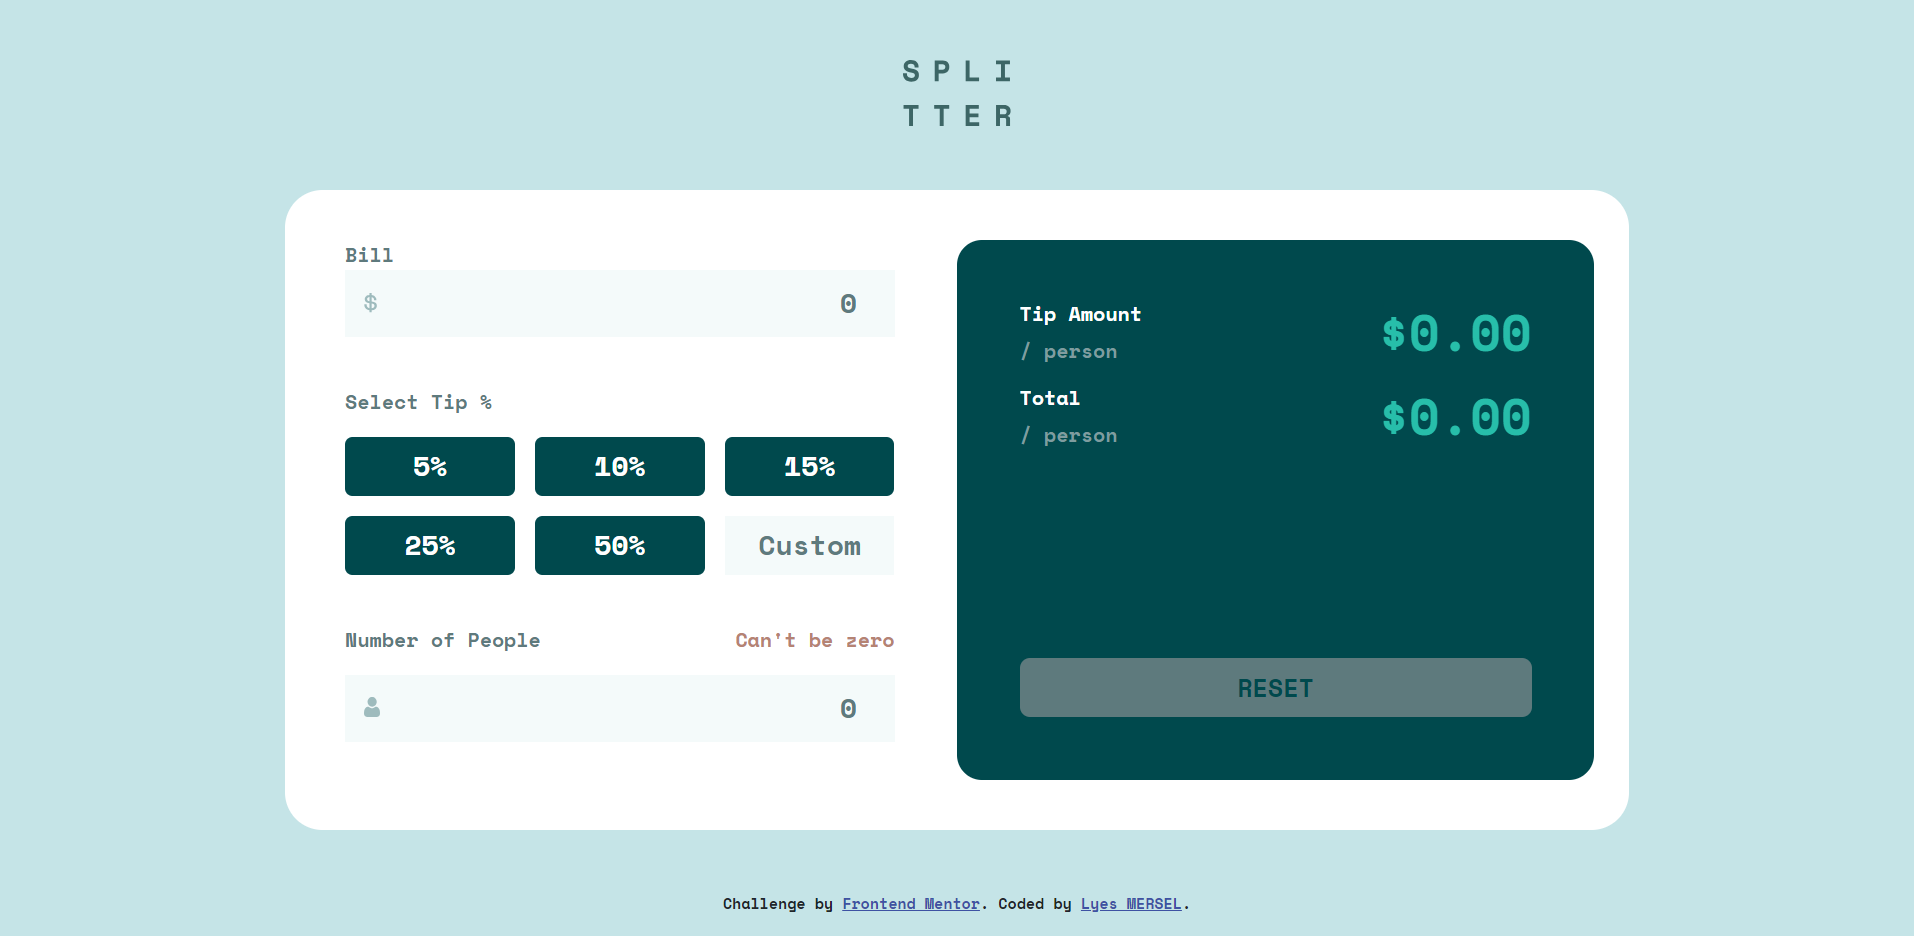
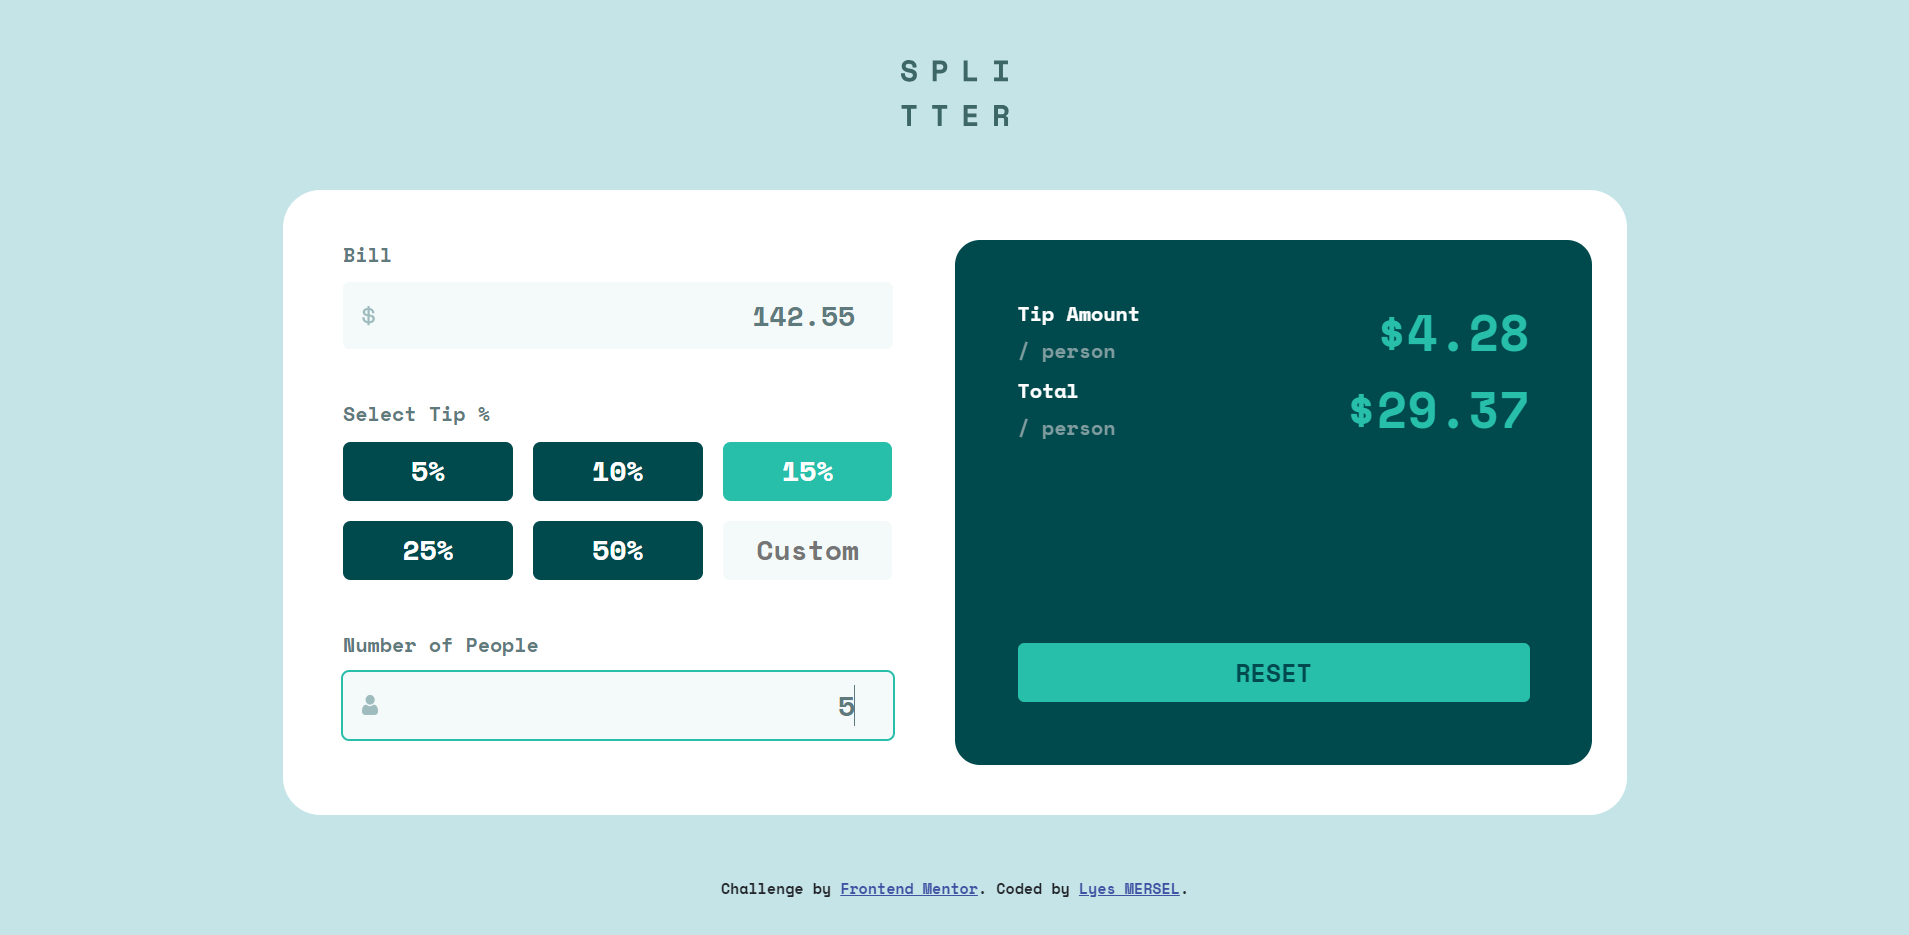
The project is done !

diff --git a/index.js b/index.js
@@ -3,16 +3,21 @@ var bill = 0, tipPerc = 0, numberPeople = 1, tipAmount = 0, totalAmount = 0;
 var tipExist = false, nbPeopleExist = false, dataExist = false;
 
 
-$(document).on("change", ()=> {
-    updateAmountsToUser();
-})
+    /*** ( The Event Listenners ) ***/
 
+// User clicks 'Enter' : Update the page
 $(document).on("keypress", (event)=> {
     if (event.key == "Enter") {
         updateAmountsToUser();
     }
 })
 
+// User clicks on the RESET button
+$(".reset-btn").on("click", ()=> {
+    resetData();
+})
+
+// User choose the tip
 $(".tip-btn").on("click", (event)=> {
     if (!dataExist) {
         dataExist = true;
@@ -27,23 +32,11 @@ $(".tip-btn").on("click", (event)=> {
     updateAmountsToUser();
 })
 
+// User customises the tip
 $("#tip-custom").on("click", ()=> {
     $(".tip-btn").removeClass("tip-selected");
     tipExist = false;
 })
-
-
-$("#bill").on("keypress", (event)=> {
-    if (event.key.match(/[0-9.]/)) {
-        if (!dataExist) {
-            dataExist = true;
-            $(".reset-btn").prop('disabled', false);
-        }
-    } else {
-        event.preventDefault();
-    }
-})
-
 $("#tip-custom").on("keypress", (event)=> {
     if (event.key.match(/[0-9.]/)) {
         if (!dataExist) {
@@ -55,6 +48,19 @@ $("#tip-custom").on("keypress", (event)=> {
     }
 })
 
+// User types the bill amount
+$("#bill").on("keypress", (event)=> {
+    if (event.key.match(/[0-9.]/)) {
+        if (!dataExist) {
+            dataExist = true;
+            $(".reset-btn").prop('disabled', false);
+        }
+    } else {
+        event.preventDefault();
+    }
+})
+
+// User types the number of people
 $("#nb-people").on("keypress", (event)=> {
     if (event.key.match(/[0-9]/)) {
         if (!dataExist) {
@@ -73,10 +79,49 @@ $("#nb-people").on("keypress", (event)=> {
 })
 
 
-// User clicks on the RESET button
-$(".reset-btn").on("click", ()=> {
-    resetData();
-})
+    /*** ( The Functions ) ***/
+
+// Do the calculations & update it on the screen
+function updateAmountsToUser() {
+    // Number of People == 0
+    if ($("#nb-people").val() == "0" || $("#nb-people").val() == "") {
+        $(".zero").removeClass("hide");
+        $("#nb-people").addClass("input-red");
+        $("#nb-people").css("outline", "none");
+        if (!dataExist) {
+            $(".reset-btn").prop('disabled', false);
+        }
+    } else {
+        nbPeopleExist = true;
+    }
+
+    // The Tip% is not selected
+    if ($("#tip-custom").val() != "") {
+        tipPerc = +$("#tip-custom").val();
+        tipExist = true;
+    }
+    if (tipExist) {
+        $(".select-tip p").removeClass("text-red");
+    } else {
+        $(".select-tip p").addClass("text-red");
+        if (!dataExist) {
+            $(".reset-btn").prop('disabled', false);
+        }
+    }
+    
+    // Data is ready : Do the calculations
+    if (tipExist && nbPeopleExist) {
+        bill = +$("#bill").val();
+        numberPeople = +$("#nb-people").val();
+        tipAmount = (bill * tipPerc / 100) / numberPeople;
+        totalAmount = (bill + tipAmount) / numberPeople;
+        // Show the amounts with 2 decimals
+        tipAmount = (Math.round(tipAmount * 100) / 100).toFixed(2);
+        totalAmount = (Math.round(totalAmount * 100) / 100).toFixed(2);
+        $("#tip-amount").text("$" + tipAmount);
+        $("#total-amount").text("$" + totalAmount);
+    }
+}
 
 // Reset Data
 function resetData() {
@@ -93,45 +138,4 @@ function resetData() {
     $("#tip-amount").text("$0.00");
     $("#total-amount").text("$0.00");
     $(".reset-btn").prop("disabled", true);
-}
-
-
-// Do the calculations & update it on the screen
-function updateAmountsToUser() {
-    // Number of People == 0
-    if ($("#nb-people").val() == "0" || $("#nb-people").val() == "") {
-        $(".zero").removeClass("hide");
-        $("#nb-people").addClass("input-red");
-        $("#nb-people").css("outline", "none");
-        if (!dataExist) {
-            $(".reset-btn").prop('disabled', false);
-        }
-    } else {
-        nbPeopleExist = true;
-    }
-
-    if ($("#tip-custom").val() != "") {
-        tipPerc = +$("#tip-custom").val();
-        tipExist = true;
-    }
-    if (tipExist) {
-        $(".select-tip p").removeClass("text-red");
-    } else {
-        $(".select-tip p").addClass("text-red");
-        if (!dataExist) {
-            $(".reset-btn").prop('disabled', false);
-        }
-    }
-    
-    if (tipExist && nbPeopleExist) {
-        bill = +$("#bill").val();
-        numberPeople = +$("#nb-people").val();
-        tipAmount = (bill * tipPerc / 100) / numberPeople;
-        totalAmount = (bill + tipAmount) / numberPeople;
-        // Show the amounts with 2 decimals
-        tipAmount = (Math.round(tipAmount * 100) / 100).toFixed(2);
-        totalAmount = (Math.round(totalAmount * 100) / 100).toFixed(2);
-        $("#tip-amount").text("$" + tipAmount);
-        $("#total-amount").text("$" + totalAmount);
-    }
 }

diff --git a/index.html b/index.html
@@ -18,9 +18,7 @@
   <img class="logo" src="images/logo.svg" alt="logo">
 
   <div class="calculator">
-
     <div class="row">
-
       <div class="input-section col-lg-6">
 
         <div class="bill">
@@ -53,7 +51,6 @@
         </div>
 
         <div class="nb-people">
-          
           <div class="row">
             <div class="col-6">
               <label for="nb-people">Number of People</label><br>
@@ -61,7 +58,6 @@
             <div class="col-6 zero hide">
               <p>Can't be zero</p>
             </div>
-
           </div>
           <input class="input-lg input-nb-people" type="text" id="nb-people" name="nb-people" placeholder="0"> 
         </div>
@@ -92,9 +88,7 @@
         </div>
         
       </div>
-
     </div>
-
   </div>
 
   

diff --git a/style.css b/style.css
@@ -8,6 +8,11 @@ body {
     background-color: hsl(185, 41%, 84%);
 }
 
+label, p {
+    margin-bottom: 10px;
+}
+
+
 .logo {
     margin-top: 50px;
 }
@@ -89,7 +94,8 @@ body {
     background-color: hsl(185, 41%, 84%);
 }
 
-.tip-selected {
+.tip-btn:focus, .tip-selected {
+    color: hsl(0, 0%, 100%);
     background-color: hsl(172, 66%, 45%);
 }
 

diff --git a/README.md b/README.md
@@ -11,10 +11,9 @@ This is a solution to the [Tip calculator app challenge on Frontend Mentor](http
 
 
 # Built with
-- HTML5
-- CSS
+- HTML5, CSS3
 - Bootstrap 5.3v
-- JS
+- JavaScript
 - Jquery 3
 
 
